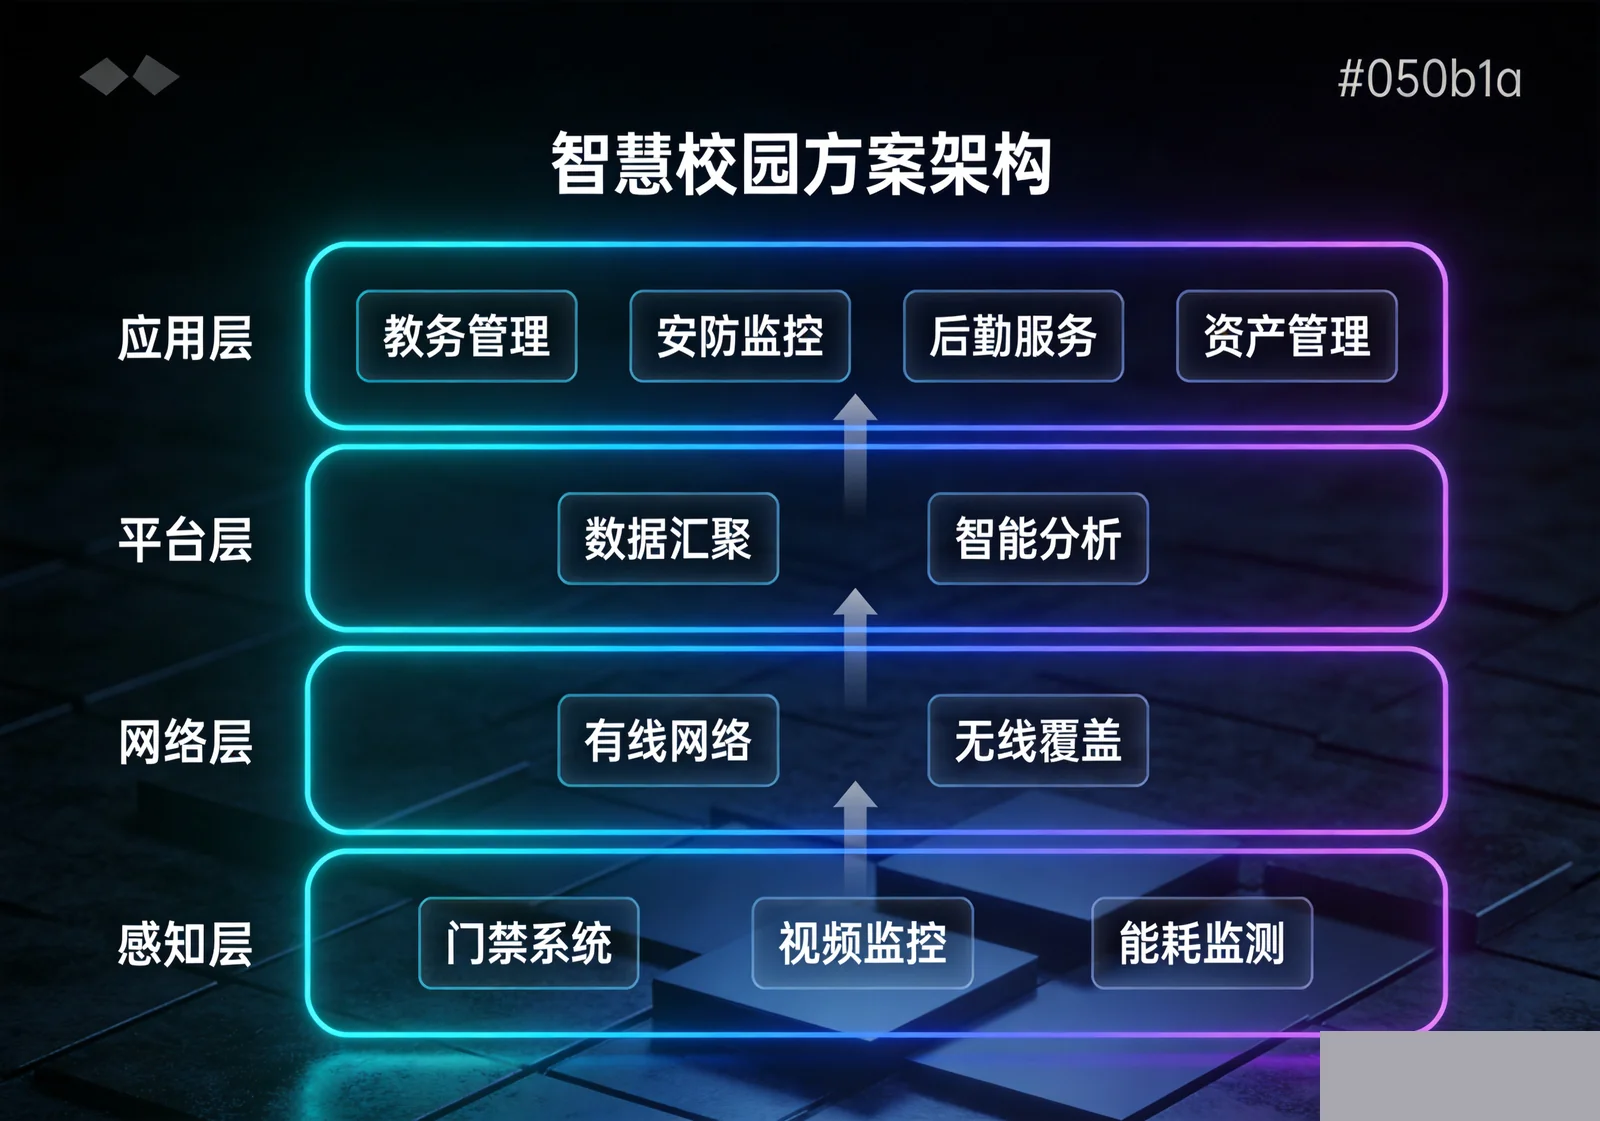
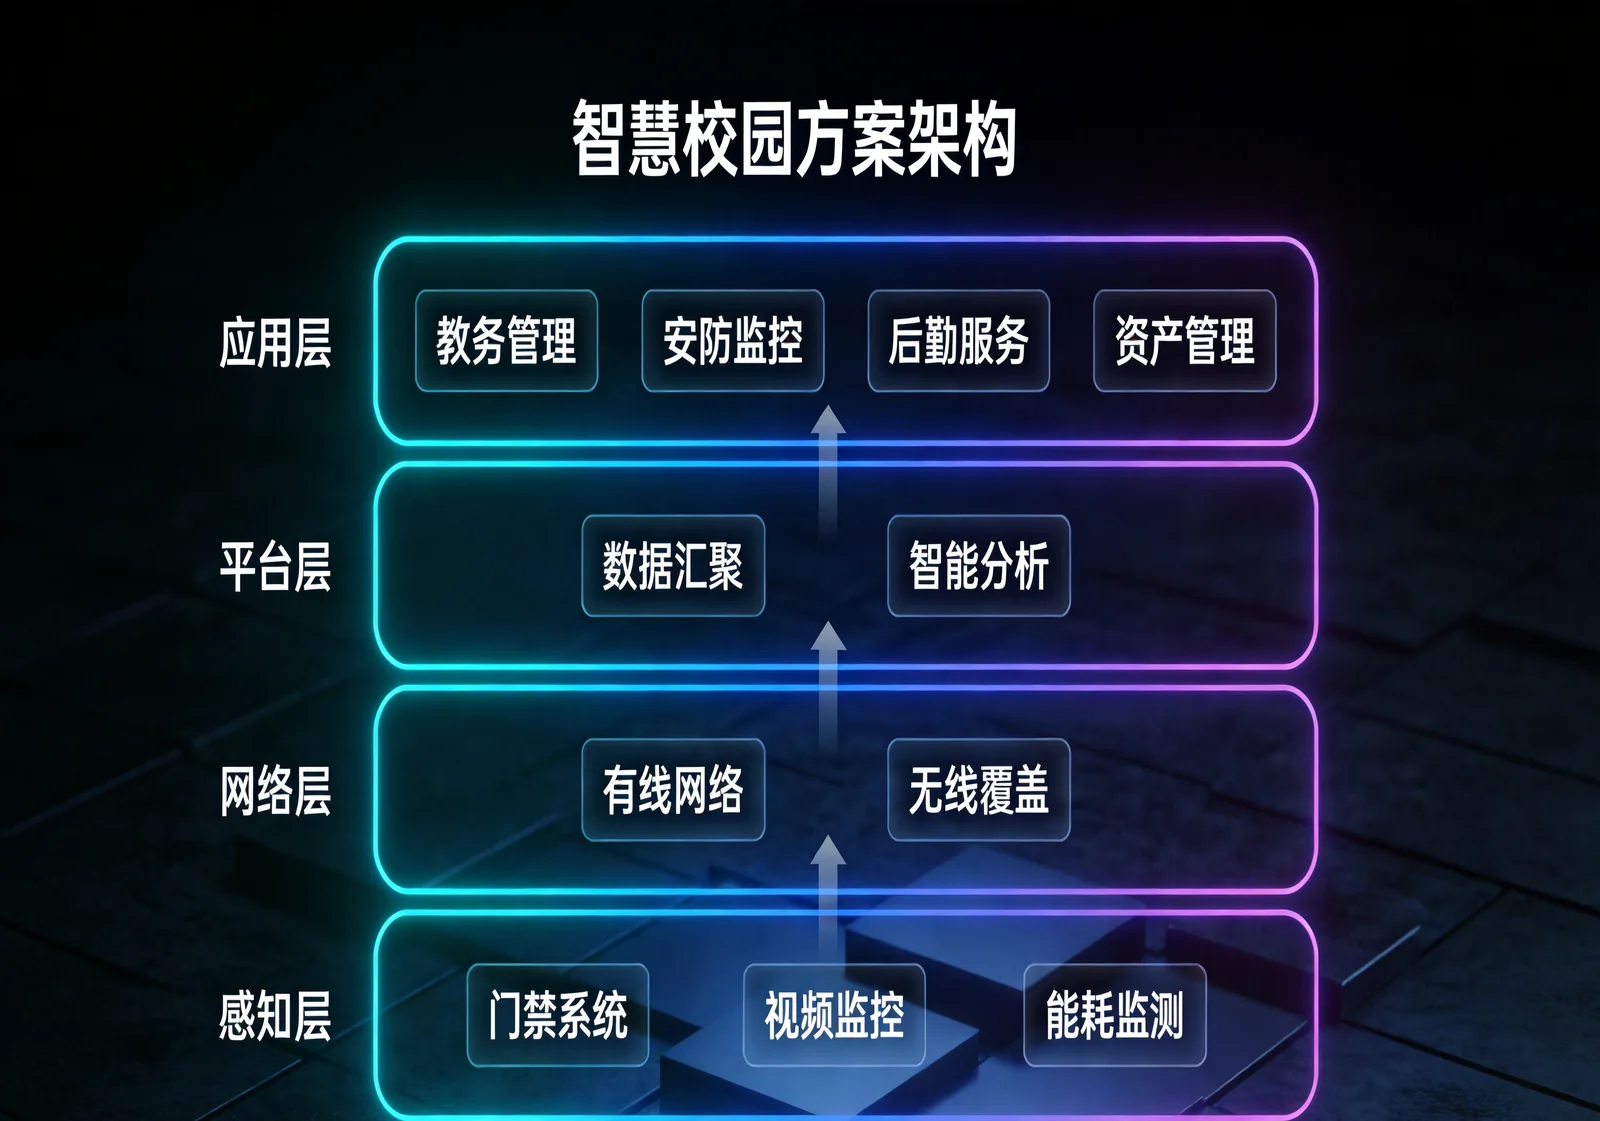
fix: remove trailing > from 30 software page captions; regenerate 3 P2 arch images (IPTV/conference/campus)
- Fix P1: batch replace </p>> -> </p> in 30 software pages (zh/en/fr x 10)
- Fix P2: regenerate solution-iptv-arch-v3.zh.webp (remove 38bdf hex text)
- Fix P2: regenerate solution-conference-arch-v3.zh.webp (remove 38bdf hex text)
- Fix P2: regenerate solution-campus-arch-v3.zh.webp (clean gray edge artifact)
- Note: software-bim-arch.zh.webp duplicate labels remain after 3 AI retries

diff --git a/fr/product-software-hr.html b/fr/product-software-hr.html
@@ -212,7 +212,7 @@
       <div class="architecture-container" style="background:var(--color-bg-elevated);border-radius:var(--radius-lg);border:1px solid var(--color-line-soft);padding:32px 24px;">
         <h3 style="text-align:center;color:var(--color-text-strong);margin-bottom:24px;font-size:var(--fs-h3);">Architecture du Système</h3>
 <img src="../images/software-hr-arch.fr.webp" alt="diagramme d'architecture du système Système de Gestion RH" style="width:100%;max-width:900px;display:block;margin:0 auto;border-radius:12px;">
-                <p style="text-align:center;color:#8aa0b8;font-size:14px;margin-top:12px;">Architecture à trois couches : Couche Serveur, Couche Web et Couche Mobile.</p>>
+                <p style="text-align:center;color:#8aa0b8;font-size:14px;margin-top:12px;">Architecture à trois couches : Couche Serveur, Couche Web et Couche Mobile.</p>
       </div>
     </div>
   </section>

diff --git a/fr/product-software-warehouse.html b/fr/product-software-warehouse.html
@@ -178,7 +178,7 @@
 <div class="architecture-container" style="background:var(--color-bg-elevated);border-radius:var(--radius-lg);border:1px solid var(--color-line-soft);padding:32px 24px;">
 <h3 style="text-align:center;color:var(--color-text-strong);margin-bottom:24px;font-size:var(--fs-h3);">Architecture du système</h3>
 <img src="../images/software-warehouse-arch.fr.webp" alt="diagramme d'architecture du système Système de Gestion d'Entrepôt" style="width:100%;max-width:900px;display:block;margin:0 auto;border-radius:12px;">
-                <p style="text-align:center;color:#8aa0b8;font-size:14px;margin-top:12px;">Architecture à trois couches : Couche serveur, Couche Web et Couche mobile.</p>>
+                <p style="text-align:center;color:#8aa0b8;font-size:14px;margin-top:12px;">Architecture à trois couches : Couche serveur, Couche Web et Couche mobile.</p>
 </div>
 </div>
 </section>

diff --git a/fr/product-software-info.html b/fr/product-software-info.html
@@ -178,7 +178,7 @@
 <div class="architecture-container" style="background:var(--color-bg-elevated);border-radius:var(--radius-lg);border:1px solid var(--color-line-soft);padding:32px 24px;">
 <h3 style="text-align:center;color:var(--color-text-strong);margin-bottom:24px;font-size:var(--fs-h3);">Architecture du Système</h3>
 <img src="../images/software-info-arch.fr.webp" alt="diagramme d'architecture du système Système d'Affichage d'Informations" style="width:100%;max-width:900px;display:block;margin:0 auto;border-radius:12px;">
-                <p style="text-align:center;color:#8aa0b8;font-size:14px;margin-top:12px;">Architecture à trois couches : Couche Serveur, Couche Web et Couche Mobile.</p>>
+                <p style="text-align:center;color:#8aa0b8;font-size:14px;margin-top:12px;">Architecture à trois couches : Couche Serveur, Couche Web et Couche Mobile.</p>
 </div>
 </div>
 </section>

diff --git a/fr/product-software-budget.html b/fr/product-software-budget.html
@@ -178,7 +178,7 @@
 <div class="architecture-container" style="background:var(--color-bg-elevated);border-radius:var(--radius-lg);border:1px solid var(--color-line-soft);padding:32px 24px;">
 <h3 style="text-align:center;color:var(--color-text-strong);margin-bottom:24px;font-size:var(--fs-h3);">Architecture du système</h3>
 <img src="../images/software-budget-arch.fr.webp" alt="diagramme d'architecture du système Système de Gestion Budgétaire" style="width:100%;max-width:900px;display:block;margin:0 auto;border-radius:12px;">
-                <p style="text-align:center;color:#8aa0b8;font-size:14px;margin-top:12px;">Architecture à trois couches : Couche serveur, Couche Web et Couche mobile.</p>>
+                <p style="text-align:center;color:#8aa0b8;font-size:14px;margin-top:12px;">Architecture à trois couches : Couche serveur, Couche Web et Couche mobile.</p>
 </div>
 </div>
 </section>

diff --git a/fr/product-software-workorder.html b/fr/product-software-workorder.html
@@ -156,7 +156,7 @@
 <div class="architecture-container" style="background:var(--color-bg-elevated);border-radius:var(--radius-lg);border:1px solid var(--color-line-soft);padding:32px 24px;">
 <h3 style="text-align:center;color:var(--color-text-strong);margin-bottom:24px;font-size:var(--fs-h3);">Architecture du système</h3>
 <img src="../images/software-workorder-arch.fr.webp" alt="diagramme d'architecture du système Système d'Ordres de Travail" style="width:100%;max-width:900px;display:block;margin:0 auto;border-radius:12px;">
-                <p style="text-align:center;color:#8aa0b8;font-size:14px;margin-top:12px;">Architecture à trois couches : Couche serveur, Couche Web et Couche mobile.</p>>
+                <p style="text-align:center;color:#8aa0b8;font-size:14px;margin-top:12px;">Architecture à trois couches : Couche serveur, Couche Web et Couche mobile.</p>
 </div>
 </div>
 </section>

diff --git a/fr/product-software-dashboard.html b/fr/product-software-dashboard.html
@@ -156,7 +156,7 @@
 <div class="architecture-container" style="background:var(--color-bg-elevated);border-radius:var(--radius-lg);border:1px solid var(--color-line-soft);padding:32px 24px;">
 <h3 style="text-align:center;color:var(--color-text-strong);margin-bottom:24px;font-size:var(--fs-h3);">Architecture du système</h3>
 <img src="../images/software-dashboard-arch.fr.webp" alt="diagramme d'architecture du système Système de Tableau de Bord" style="width:100%;max-width:900px;display:block;margin:0 auto;border-radius:12px;">
-                <p style="text-align:center;color:#8aa0b8;font-size:14px;margin-top:12px;">Architecture à trois couches : Couche serveur, Couche Web et Couche mobile.</p>>
+                <p style="text-align:center;color:#8aa0b8;font-size:14px;margin-top:12px;">Architecture à trois couches : Couche serveur, Couche Web et Couche mobile.</p>
 </div>
 </div>
 </section>

diff --git a/fr/product-software-inspection.html b/fr/product-software-inspection.html
@@ -156,7 +156,7 @@
 <div class="architecture-container" style="background:var(--color-bg-elevated);border-radius:var(--radius-lg);border:1px solid var(--color-line-soft);padding:32px 24px;">
 <h3 style="text-align:center;color:var(--color-text-strong);margin-bottom:24px;font-size:var(--fs-h3);">Architecture du système</h3>
 <img src="../images/software-inspection-arch.fr.webp" alt="diagramme d'architecture du système Système d'Inspection" style="width:100%;max-width:900px;display:block;margin:0 auto;border-radius:12px;">
-                <p style="text-align:center;color:#8aa0b8;font-size:14px;margin-top:12px;">Architecture à trois couches : Couche serveur, Couche Web et Couche mobile.</p>>
+                <p style="text-align:center;color:#8aa0b8;font-size:14px;margin-top:12px;">Architecture à trois couches : Couche serveur, Couche Web et Couche mobile.</p>
 </div>
 </div>
 </section>

diff --git a/fr/product-software-blacklist.html b/fr/product-software-blacklist.html
@@ -178,7 +178,7 @@
 <div class="architecture-container" style="background:var(--color-bg-elevated);border-radius:var(--radius-lg);border:1px solid var(--color-line-soft);padding:32px 24px;">
 <h3 style="text-align:center;color:var(--color-text-strong);margin-bottom:24px;font-size:var(--fs-h3);">Architecture du système</h3>
 <img src="../images/software-blacklist-arch.fr.webp" alt="diagramme d'architecture du système Système Liste Noire" style="width:100%;max-width:900px;display:block;margin:0 auto;border-radius:12px;">
-                <p style="text-align:center;color:#8aa0b8;font-size:14px;margin-top:12px;">Architecture à trois couches : Couche serveur, Couche Web et Couche mobile.</p>>
+                <p style="text-align:center;color:#8aa0b8;font-size:14px;margin-top:12px;">Architecture à trois couches : Couche serveur, Couche Web et Couche mobile.</p>
 </div>
 </div>
 </section>

diff --git a/fr/product-software-bim.html b/fr/product-software-bim.html
@@ -178,7 +178,7 @@
 <div class="architecture-container" style="background:var(--color-bg-elevated);border-radius:var(--radius-lg);border:1px solid var(--color-line-soft);padding:32px 24px;">
 <h3 style="text-align:center;color:var(--color-text-strong);margin-bottom:24px;font-size:var(--fs-h3);">Architecture du système</h3>
 <img src="../images/software-bim-arch.fr.webp" alt="diagramme d'architecture du système Système BIM Allégé" style="width:100%;max-width:900px;display:block;margin:0 auto;border-radius:12px;">
-                <p style="text-align:center;color:#8aa0b8;font-size:14px;margin-top:12px;">Architecture à trois couches : Couche serveur, Couche Web et Couche mobile.</p>>
+                <p style="text-align:center;color:#8aa0b8;font-size:14px;margin-top:12px;">Architecture à trois couches : Couche serveur, Couche Web et Couche mobile.</p>
 </div>
 </div>
 </section>

diff --git a/en/product-software-hr.html b/en/product-software-hr.html
@@ -212,7 +212,7 @@
       <div class="architecture-container" style="background:var(--color-bg-elevated);border-radius:var(--radius-lg);border:1px solid var(--color-line-soft);padding:32px 24px;">
         <h3 style="text-align:center;color:var(--color-text-strong);margin-bottom:24px;font-size:var(--fs-h3);">System Architecture</h3>
 <img src="../images/software-hr-arch.en.webp" alt="HR Management System system architecture diagram" style="width:100%;max-width:900px;display:block;margin:0 auto;border-radius:12px;">
-                <p style="text-align:center;color:#8aa0b8;font-size:14px;margin-top:12px;">Three-layer architecture: Server Layer, Web Layer and Mobile Layer.</p>>
+                <p style="text-align:center;color:#8aa0b8;font-size:14px;margin-top:12px;">Three-layer architecture: Server Layer, Web Layer and Mobile Layer.</p>
       </div>
     </div>
   </section>

diff --git a/en/product-software-budget.html b/en/product-software-budget.html
@@ -178,7 +178,7 @@
 <div class="architecture-container" style="background:var(--color-bg-elevated);border-radius:var(--radius-lg);border:1px solid var(--color-line-soft);padding:32px 24px;">
 <h3 style="text-align:center;color:var(--color-text-strong);margin-bottom:24px;font-size:var(--fs-h3);">System Architecture</h3>
 <img src="../images/software-budget-arch.en.webp" alt="Engineering Budget Management System system architecture diagram" style="width:100%;max-width:900px;display:block;margin:0 auto;border-radius:12px;">
-                <p style="text-align:center;color:#8aa0b8;font-size:14px;margin-top:12px;">Three-layer architecture: Server Layer, Web Layer and Mobile Layer.</p>>
+                <p style="text-align:center;color:#8aa0b8;font-size:14px;margin-top:12px;">Three-layer architecture: Server Layer, Web Layer and Mobile Layer.</p>
 </div>
 </div>
 </section>

diff --git a/fr/product-software-ibms.html b/fr/product-software-ibms.html
@@ -178,7 +178,7 @@
 <div class="architecture-container" style="background:var(--color-bg-elevated);border-radius:var(--radius-lg);border:1px solid var(--color-line-soft);padding:32px 24px;">
 <h3 style="text-align:center;color:var(--color-text-strong);margin-bottom:24px;font-size:var(--fs-h3);">Architecture du système</h3>
 <img src="../images/software-ibms-arch.fr.webp" alt="diagramme d'architecture du système IBMS" style="width:100%;max-width:900px;display:block;margin:0 auto;border-radius:12px;">
-                <p style="text-align:center;color:#8aa0b8;font-size:14px;margin-top:12px;">Architecture à trois couches : Couche serveur, Couche Web et Couche mobile.</p>>
+                <p style="text-align:center;color:#8aa0b8;font-size:14px;margin-top:12px;">Architecture à trois couches : Couche serveur, Couche Web et Couche mobile.</p>
 </div>
 </div>
 </section>
